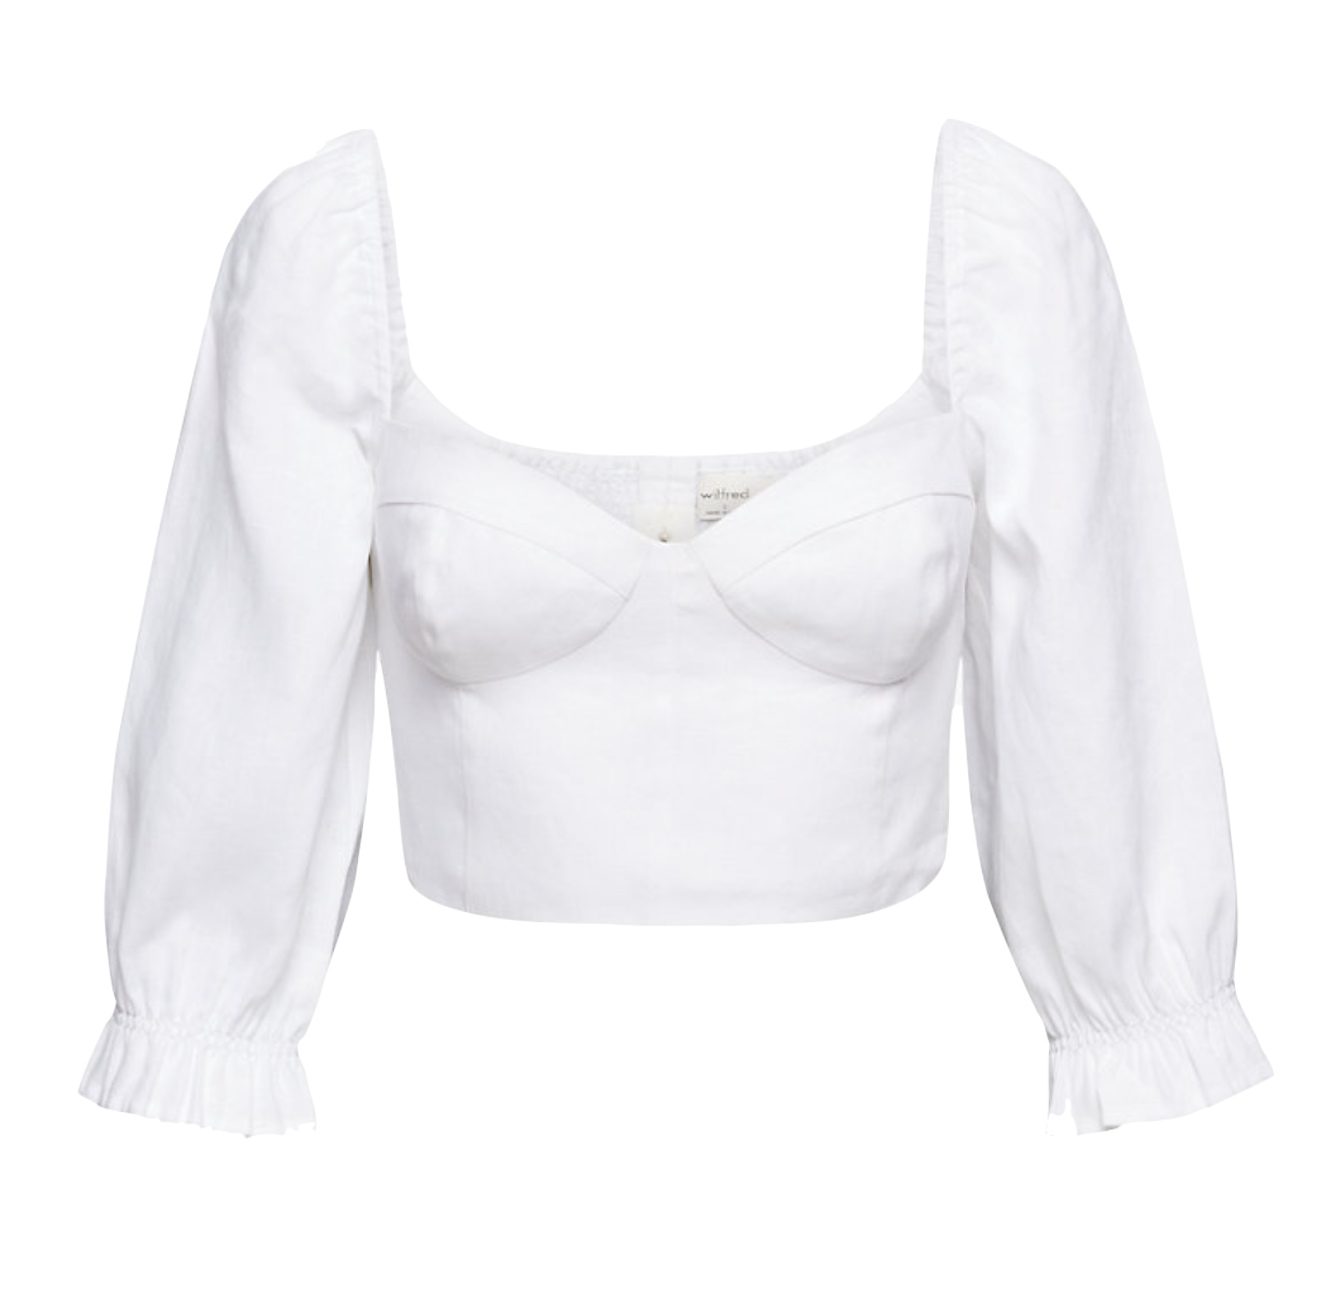
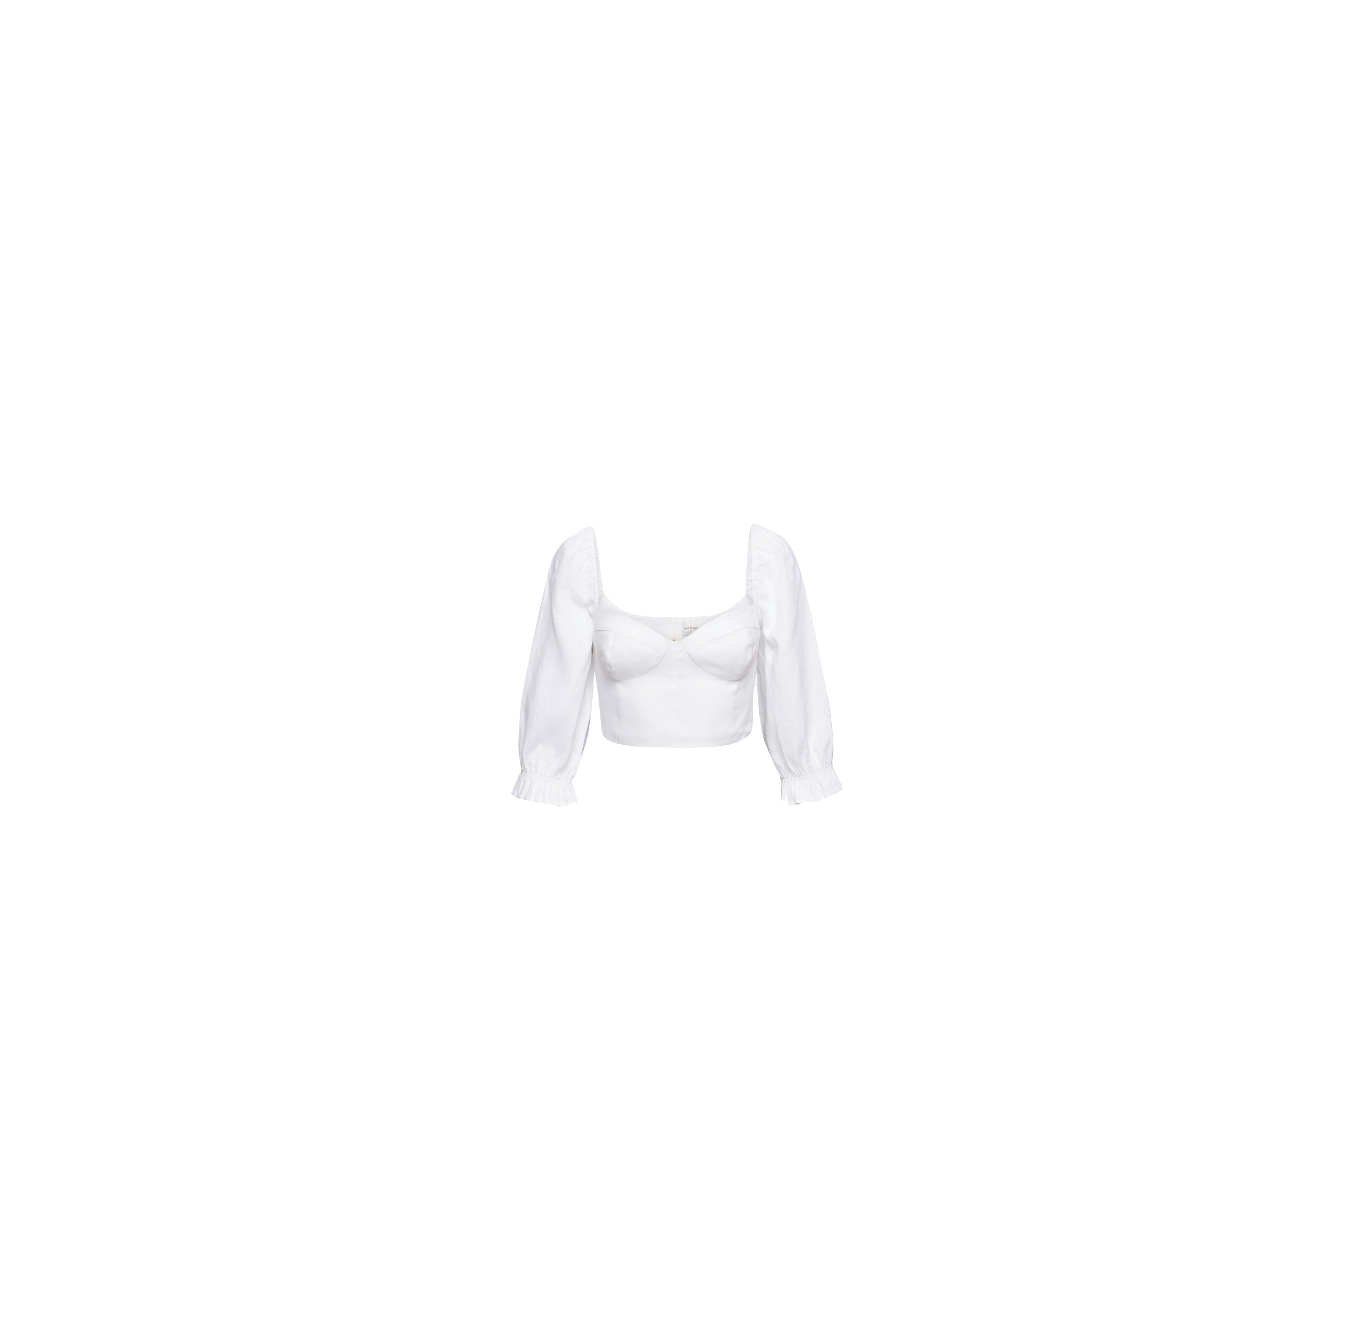
added bunch of images and updated sizing

diff --git a/CapstoneProject/src/mannequin/clothes/TopsList.java b/CapstoneProject/src/mannequin/clothes/TopsList.java
@@ -128,6 +128,61 @@ public class TopsList{
 		Top top8 = new Top("Hot", whiteTShirt);
 		allList.add(top8);
 		
+		img= null;
+		try {
+			img = ImageIO.read(new File("res/blackbuttondown.png"));
+		} catch (IOException e) {
+			// TODO Auto-generated catch block
+			e.printStackTrace();
+		}
+		PImage blackButtonDown = new PImage(img);
+		Top top9 = new Top("Cold", blackButtonDown);
+		allList.add(top9);
+		
+		img= null;
+		try {
+			img = ImageIO.read(new File("res/blacksweater.png"));
+		} catch (IOException e) {
+			// TODO Auto-generated catch block
+			e.printStackTrace();
+		}
+		PImage blackSweater = new PImage(img);
+		Top top10 = new Top("Cold", blackSweater);
+		allList.add(top10);
+		
+		img= null;
+		try {
+			img = ImageIO.read(new File("res/bluebuttondown.png"));
+		} catch (IOException e) {
+			// TODO Auto-generated catch block
+			e.printStackTrace();
+		}
+		PImage blueButtonDown = new PImage(img);
+		Top top11 = new Top("Cold", blueButtonDown);
+		allList.add(top11);
+		
+		img= null;
+		try {
+			img = ImageIO.read(new File("res/greenbuttondown.png"));
+		} catch (IOException e) {
+			// TODO Auto-generated catch block
+			e.printStackTrace();
+		}
+		PImage greenButtonDown = new PImage(img);
+		Top top12 = new Top("Cold", greenButtonDown);
+		allList.add(top12);
+		
+		img= null;
+		try {
+			img = ImageIO.read(new File("res/whitesweater.png"));
+		} catch (IOException e) {
+			// TODO Auto-generated catch block
+			e.printStackTrace();
+		}
+		PImage whiteSweater = new PImage(img);
+		Top top13 = new Top("Cold", whiteSweater);
+		allList.add(top13);
+		
 		
 		
 	}

diff --git a/CapstoneProject/src/mannequin/clothes/AccessoryList.java b/CapstoneProject/src/mannequin/clothes/AccessoryList.java
@@ -51,6 +51,50 @@ public class AccessoryList extends PApplet{
 		Accessory accessory1 = new Accessory("Hot", whiteHat);
 		allList.add(accessory1);
 		
+		img= null;
+		try {
+			img = ImageIO.read(new File("res/blackhat.png"));
+		} catch (IOException e) {
+			// TODO Auto-generated catch block
+			e.printStackTrace();
+		}
+		PImage blackHat = new PImage(img);
+		Accessory accessory2 = new Accessory("Hot", blackHat);
+		allList.add(accessory2);
+		
+		img= null;
+		try {
+			img = ImageIO.read(new File("res/blackbeanie.png"));
+		} catch (IOException e) {
+			// TODO Auto-generated catch block
+			e.printStackTrace();
+		}
+		PImage blackBeanie = new PImage(img);
+		Accessory accessory3 = new Accessory("Cold", blackBeanie);
+		allList.add(accessory3);
+		
+		img= null;
+		try {
+			img = ImageIO.read(new File("res/graybeanie.png"));
+		} catch (IOException e) {
+			// TODO Auto-generated catch block
+			e.printStackTrace();
+		}
+		PImage grayBeanie = new PImage(img);
+		Accessory accessory4 = new Accessory("Cold", grayBeanie);
+		allList.add(accessory4);
+		
+		img= null;
+		try {
+			img = ImageIO.read(new File("res/greenbeanie.png"));
+		} catch (IOException e) {
+			// TODO Auto-generated catch block
+			e.printStackTrace();
+		}
+		PImage greenBeanie = new PImage(img);
+		Accessory accessory5 = new Accessory("Cold", greenBeanie);
+		allList.add(accessory5);
+		
 		
 	}
 

diff --git a/CapstoneProject/src/mannequin/clothes/BottomsList.java b/CapstoneProject/src/mannequin/clothes/BottomsList.java
@@ -77,7 +77,7 @@ public class BottomsList extends PApplet{
 			e.printStackTrace();
 		}
 		PImage blueFlareJeans = new PImage(img);
-		Bottom bottom4 = new Bottom("Hot", blueFlareJeans);
+		Bottom bottom4 = new Bottom("Cold", blueFlareJeans);
 		allList.add(bottom4);
 		
 		img= null;
@@ -101,6 +101,18 @@ public class BottomsList extends PApplet{
 		PImage blueJeansWRips = new PImage(img);
 		Bottom bottom6 = new Bottom("Hot", blueJeansWRips);
 		allList.add(bottom6);
+		
+		img= null;
+		try {
+			img = ImageIO.read(new File("res/blacksweats.png"));
+		} catch (IOException e) {
+			// TODO Auto-generated catch block
+			e.printStackTrace();
+		}
+		PImage blackSweats = new PImage(img);
+		Bottom bottom7 = new Bottom("Cold", blackSweats);
+		allList.add(bottom7);
+		
 				
 		
 	}
